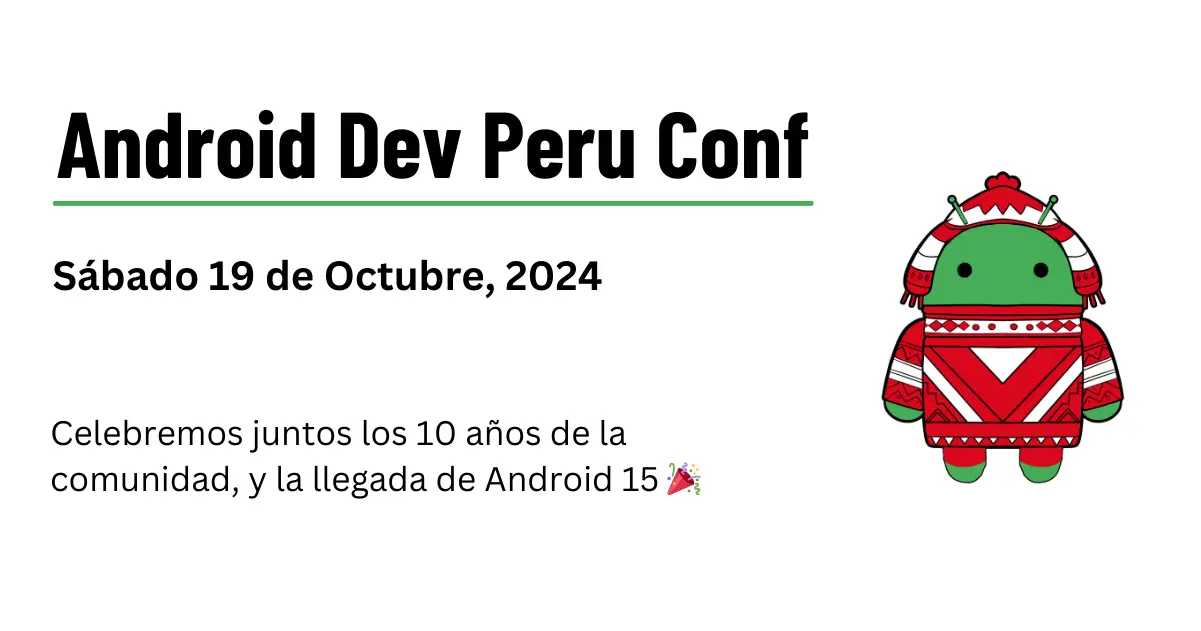
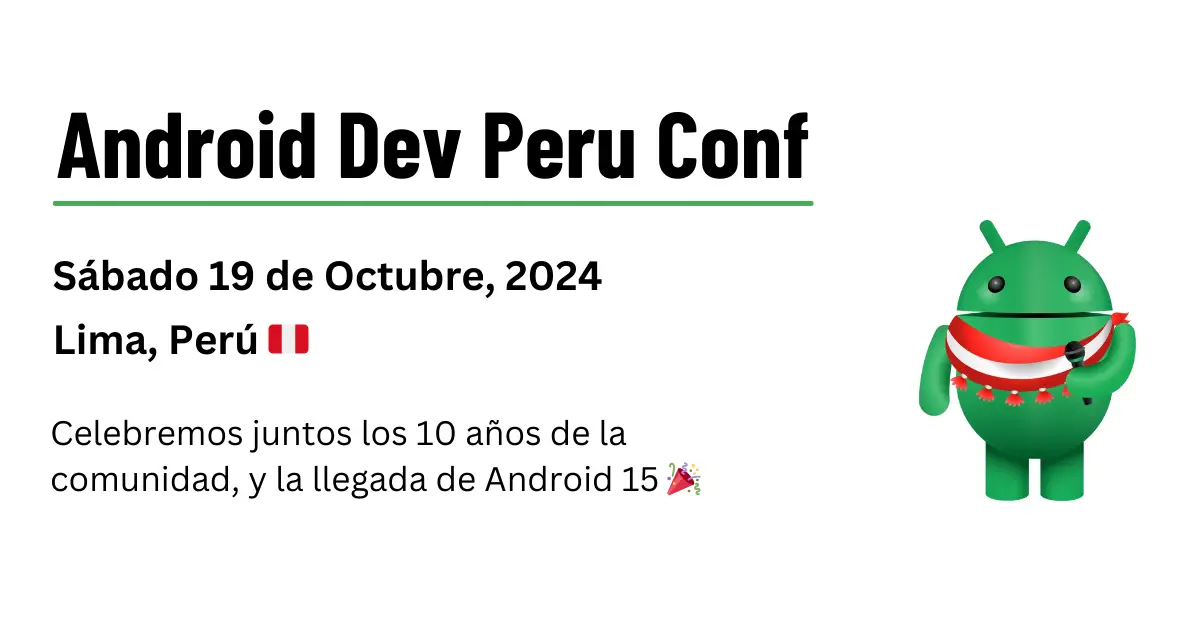
chore: use new android robot designs

Changed region(s): [[0.7086, 0.271, 0.955, 0.813], [0.0308, 0.5119, 0.2773, 0.5721]]

diff --git a/site/src/jsMain/kotlin/web/android/dev/pe/pages/conf/components/sections/ConferenceHeader.kt b/site/src/jsMain/kotlin/web/android/dev/pe/pages/conf/components/sections/ConferenceHeader.kt
@@ -39,7 +39,7 @@ private fun HeaderContent() {
         PrimaryButton(
             text = ResStrings.conf_events_register.uppercase(),
             href = Res.Links.Conf.Register("webhero"),
-            modifier = Modifier.margin(topBottom = 16.px),
+            modifier = Modifier.margin(topBottom = 16.px).fontWeight(FontWeight.ExtraBold),
             variant = RectangularPrimaryButtonVariant,
         )
         SpanText(ResStrings.conf_header_time, styles.details.toModifier())
@@ -54,7 +54,7 @@ private fun HeaderContent() {
 @Composable
 private fun HeaderImage() {
     Image(
-        src = "/events/conf2024/android_peruvian_red.webp",
+        src = "/events/conf2024/android_microfono.webp",
         modifier = ConferenceHeaderStyles.image.toModifier()
     )
 }
@@ -102,7 +102,7 @@ object ConferenceHeaderStyles {
             Modifier.fillMaxWidth().maxWidth(150.px)
         }
         Breakpoint.MD {
-            Modifier.maxWidth(300.px)
+            Modifier.maxWidth(250.px)
         }
     }
 }

diff --git a/site/src/jsMain/kotlin/web/android/dev/pe/pages/aboutus/AboutUs.kt b/site/src/jsMain/kotlin/web/android/dev/pe/pages/aboutus/AboutUs.kt
@@ -67,14 +67,7 @@ private fun Header() {
             .flexDirection(FlexDirection.Column)
             .padding(2.em)
     ) {
-        Row(
-            verticalAlignment = Alignment.CenterVertically,
-            horizontalArrangement = Arrangement.spacedBy(16.px)
-        ) {
-            SpanText("🇵🇪", Modifier.fontSize(FontSize.XLarge))
-            Image(src = "/images/droid.svg", Modifier.size(100.px))
-            SpanText("🇵🇪", Modifier.fontSize(FontSize.XLarge))
-        }
+        Image(src = "/images/android_peruvian_head_white.webp", Modifier.size(250.px))
         P(Modifier.textAlign(TextAlign.Center).fontSize(FontSize.Larger).fontWeight(FontWeight.ExtraBold).toAttrs()) {
             Text(ResStrings.about_us_title)
         }

diff --git a/site/src/jsMain/kotlin/web/android/dev/pe/components/ConferenceSite.kt b/site/src/jsMain/kotlin/web/android/dev/pe/components/ConferenceSite.kt
@@ -22,11 +22,11 @@ private val ConferenceNavbar = Navbar(
     primaryLink = Navlink(path = Res.Links.Conf.Register("webnavbar")) { ResStrings.conf_navlink_register },
     secondaryLinks = listOf(
         Navlink(path = Routes.Conf.Speakers) { ResStrings.conf_speakers_title },
-        Navlink(path = Routes.Conf.Sponsorship) { ResStrings.conf_navlink_sponsor },
+        Navlink(path = Routes.AboutUs) { ResStrings.site_navlink_about_us },
     ),
     languageSelector = LanguageSelectorOptions.All,
     logo = NavbarLogo(
-        src = "/logo.svg",
+        src = "/logo_roboto_peruvian.png",
         title = { ResStrings.conf_title },
         path = Routes.Conf.Index,
     ),
